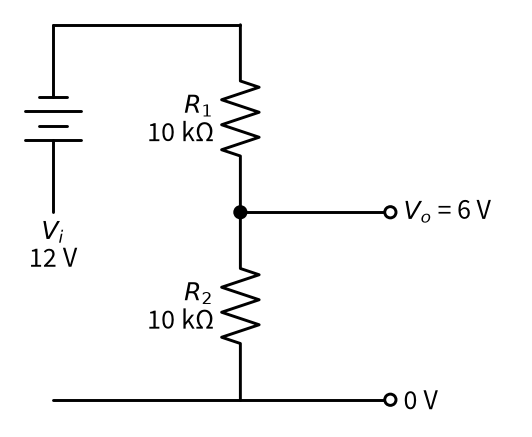
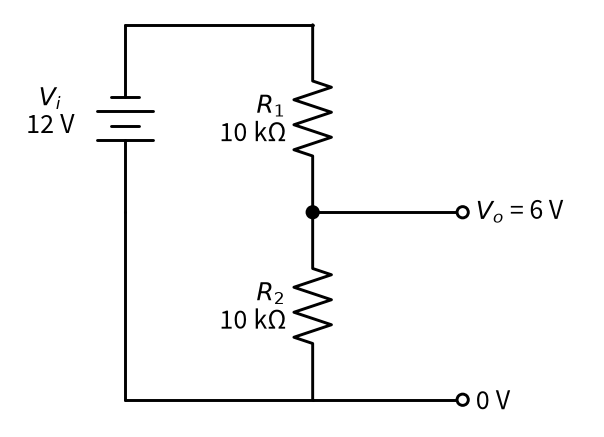
fix: 元件速成 复核修改

diff --git a/code/figs/P1_figs.py b/code/figs/P1_figs.py
@@ -15,12 +15,14 @@ P = "P1"
 # ---------------- 图 P1-p1-1：分压电路 ----------------
 def p1_1_divider():
     with drawing() as d:
-        d += (src := elm.Battery().up().label("$V_i$\n12 V", "left"))
+        d += (src := elm.Battery().up())
+        d += elm.Label().at((src.center.x - 0.9, src.center.y)).label("$V_i$\n12 V")
         d += elm.Line().right(2.5)
         d += (r1 := elm.Resistor().down().label("$R_1$\n10 kΩ"))
         d += (j := elm.Dot())
         d += (r2 := elm.Resistor().down().label("$R_2$\n10 kΩ"))
         d += elm.Line().left().tox(src.start)
+        d += elm.Line().up().toy(src.start)          # 把电池下端接到底线上，回路闭合
         d += elm.Line().right().at(j.center).length(2.0)
         d += elm.Dot(open=True).label("$V_o$ = 6 V", "right")
         d += elm.Line().right().at(r2.end).length(2.0)
@@ -219,6 +221,110 @@ def p2_5_timer():
     fs.save(fig, P, "P1_p2_5_timer.png")
 
 
+# ---------------- 图 P1-p2-6：通电延时与断电延时的四种触点符号 ----------------
+class TimerOffNO(Element2Term):
+    """断电延时「断开」常开触点：与 TimerNO 相同，只是半圆弧翻过来，开口朝向动触片。"""
+    def __init__(self, **kw):
+        super().__init__(**kw)
+        self.segments.append(Segment([(0, 0), (0.85, 0.42), GAP, (1, 0)]))
+        self.segments.append(Segment([(0.45, 0.22), (0.45, 0.78)]))
+        self.segments.append(SegmentArc((0.45, 0.62), width=0.5, height=0.32, theta1=0, theta2=180))
+
+
+class TimerOffNC(Element2Term):
+    """断电延时「闭合」常闭触点：与 TimerNC 相同，只是半圆弧翻过来。"""
+    def __init__(self, **kw):
+        super().__init__(**kw)
+        self.segments.append(Segment([(0, 0), (1.12, 0.42), GAP, (1, 0)]))
+        self.segments.append(Segment([(1, 0), (1, 0.5)]))
+        self.segments.append(Segment([(0.5, 0.19), (0.5, 0.78)]))
+        self.segments.append(SegmentArc((0.5, 0.62), width=0.5, height=0.32, theta1=0, theta2=180))
+
+
+def p2_6_timer_symbols():
+    with drawing(fontsize=11) as d:
+        items = [(TimerNO, "通电延时型\n常开触点\n（延时闭合）"), (TimerNC, "通电延时型\n常闭触点\n（延时断开）"),
+                 (TimerOffNO, "断电延时型\n常开触点\n（延时断开）"), (TimerOffNC, "断电延时型\n常闭触点\n（延时闭合）")]
+        x = 0
+        for cls, lab in items:
+            d += elm.Line().at((x, 0)).down().length(0.4)
+            d += cls().down().label(lab, "bottom", fontsize=10, ofst=0.35)
+            d += elm.Line().down().length(0.4)
+            x += 3.6
+    print("[图 P1-p2-6] 4 个延时触点符号：通电延时型半圆弧开口朝右（背离动触片），断电延时型开口朝左（朝向动触片）")
+    save_schem(d, P, "P1_p2_6_timer_symbols.png")
+
+
+# ---------------- 图 P1-p2-7：戴维南等效——分压器 = 6 V 理想电压源串 5 kΩ 内阻 ----------------
+def p2_7_thevenin():
+    Vi, R1, R2 = 12.0, 10e3, 10e3
+    Voc = Vi * R2 / (R1 + R2)                 # 空载（开路）电压
+    Isc = Vi / R1                             # 输出端短路时的电流（R2 被短路，只剩 R1）
+    Rth = Voc / Isc                           # 内阻 = 空载电压 ÷ 短路电流
+    print(f"[P1-p2-7] 空载电压 V_th = {Voc:.2f} V，短路电流 = {Isc*1e3:.2f} mA，内阻 R_th = {Rth/1e3:.2f} kΩ")
+    assert abs(Voc - 6) < 1e-9 and abs(Isc - 1.2e-3) < 1e-12 and abs(Rth - 5e3) < 1e-6
+    assert abs(Rth - R1 * R2 / (R1 + R2)) < 1e-6          # 和「R1、R2 并联」的结果一样
+    for RL in (10e3, 100e3):
+        par = R2 * RL / (R2 + RL)
+        direct = Vi * par / (R1 + par)                     # 原理篇第一节的老算法：先并联、再分压
+        thev = Voc * RL / (Rth + RL)                       # 新算法：6 V 串 5 kΩ，再和 R_L 分压
+        print(f"[P1-p2-7] R_L = {RL/1e3:g} kΩ：先并联再分压 {direct:.2f} V，等效电路 {thev:.2f} V，掉了 {(Voc-thev)/Voc*100:.1f}%")
+        assert abs(direct - thev) < 1e-9
+    # 规律：负载是内阻的 10 倍时，输出掉 1/11
+    print(f"[P1-p2-7] R_L = 10 × R_th 时输出为空载的 {10/11*100:.1f}%，掉 {1/11*100:.1f}%")
+    assert abs(1 / 11 * 100 - 9.1) < 0.05
+    # 内阻算例（完整示例）：电源盒空载 5.00 V，接 100 Ω 后 4.00 V
+    E, RLa, Va = 5.0, 100.0, 4.0
+    Ia = Va / RLa; r = (E - Va) / Ia
+    Vb = E * 50 / (r + 50)
+    print(f"[P1 内阻算例] 电流 {Ia*1e3:.0f} mA，内阻 r = {r:.0f} Ω；换 50 Ω 负载输出 {Vb:.2f} V；短路电流 {E/r*1e3:.0f} mA")
+    assert abs(Ia - 0.04) < 1e-12 and abs(r - 25) < 1e-9 and abs(Vb - 3.33) < 0.005
+    # 内阻留空题：9 V 电池空载 9.0 V，接 30 Ω 后 8.1 V
+    E5, R5, V5 = 9.0, 30.0, 8.1
+    I5 = V5 / R5; r5 = (E5 - V5) / I5
+    print(f"[P1 内阻留空题] 电流 {I5*1e3:.0f} mA，内阻 {r5:.2f} Ω；接 10 Ω 时输出 {E5*10/(r5+10):.2f} V")
+    assert abs(I5 - 0.27) < 1e-9 and abs(r5 - 3.33) < 0.005
+    with drawing(fontsize=11) as d:
+        # 左：原来的分压器 + 负载
+        d += (src := elm.Battery().up().at((0, 0)))
+        d += elm.Label().at((src.center.x - 0.9, src.center.y)).label("12 V")
+        d += elm.Line().right(2.0)
+        d += elm.Resistor().down().label("$R_1$\n10 kΩ")
+        d += (j := elm.Dot())
+        d += elm.Resistor().down().label("$R_2$\n10 kΩ")
+        d += elm.Line().left().tox(src.start)
+        d += elm.Line().up().toy(src.start)
+        d += elm.Line().right().at(j.center).length(1.8)
+        d += (a := elm.Dot(open=True).label("A", "right"))
+        d += elm.Resistor().down().label("$R_L$", "bottom")
+        d += elm.Line().left().length(1.8)
+        d += elm.Label().at((1.5, -2.9)).label("原电路：分压器 + 负载", fontsize=10)
+        # 中间的「等效」箭头
+        d += elm.Label().at((6.0, 1.5)).label("从 A 点往里看\n两者一模一样  ⇔", fontsize=10)
+        # 右：等效电路
+        x0 = 9.0
+        d += (s2 := elm.Battery().up().at((x0, 0)))
+        d += elm.Label().at((x0 - 0.9, s2.center.y)).label("$V_{th}$\n6 V")
+        d += elm.Resistor().right().label("$R_{th}$  5 kΩ")
+        d += (b := elm.Dot(open=True).label("A", "right"))
+        d += elm.Resistor().down().label("$R_L$", "bottom")
+        d += elm.Line().left().tox(s2.start)
+        d += elm.Label().at((x0 + 1.5, -0.8)).label("等效电路：理想电压源串内阻", fontsize=10)
+    save_schem(d, P, "P1_p2_7_thevenin.png")
+
+
+# ---------------- 参数与调试篇新增练习的答案数字 ----------------
+def p3_new_exercises():
+    T, on, off = 3.0, 2.0, 6.0
+    nd_close = on + T if on + T < off else None          # 通电延时常开：等满 3 s 才闭合，线圈先断电就不闭合
+    print(f"[P1 练习 4] 线圈 {on:g} s 通电、{off:g} s 断电，设定 {T:g} s：通电延时常开 {nd_close:g} s 闭合、{off:g} s 断开；"
+          f"断电延时常开 {on:g} s 闭合、{off + T:g} s 断开")
+    assert nd_close == 5.0 and off + T == 9.0
+    # 若线圈只通电 2 s（2 s→4 s），不到 3 s，通电延时触点根本不动作
+    assert not (2.0 + T < 4.0)
+    print("[P1 练习 4] 若线圈 2 s→4 s 只通电 2 s：通电延时常开不闭合；断电延时常开 2 s 闭合、7 s 断开")
+
+
 # ---------------- 图 P1-p3-1：改变 R（τ）对充电曲线的影响 ----------------
 def p3_1_tau_scan():
     C = 100e-6
@@ -309,6 +415,6 @@ def p3_datasheet_numbers():
 
 if __name__ == "__main__":
     p1_1_divider(); p1_2_rc(); p1_3_symbols(); p1_4_relay_loops()
-    p2_1_loading(); p2_3_square(); p2_4_flyback(); p2_5_timer()
+    p2_1_loading(); p2_3_square(); p2_4_flyback(); p2_5_timer(); p2_6_timer_symbols(); p2_7_thevenin()
     p3_1_tau_scan(); p3_2_divider_tradeoff(); p3_3_rl_answer()
-    p3_datasheet_numbers()
+    p3_datasheet_numbers(); p3_new_exercises()

diff --git a/code/P1_sim.py b/code/P1_sim.py
@@ -1,7 +1,7 @@
 # P1 最小仿真：RC 电路先充电、再放电。思路：把时间切成很多 1 ms 的小段，每一段里
 #   ① 用欧姆定律算流过电阻的电流；② 电流 × 时间 = 流进电容的电荷；③ 电荷 ÷ C = 电容电压涨了多少。
-import sys, os                                     # 下一行让 Python 找到 code/figs 里的共享画图样式
-sys.path.insert(0, os.path.join(os.path.dirname(os.path.abspath(__file__)), "figs"))
+import sys, pathlib
+sys.path.insert(0, str(pathlib.Path("code/figs").resolve()))  # 在仓库根目录运行
 import numpy as np                                 # 数组运算
 import matplotlib.pyplot as plt                    # 画图
 import figstyle as fs                              # 全书统一的颜色、轴标签、保存函数

diff --git a/P1-components-basics/page3.md b/P1-components-basics/page3.md
@@ -8,11 +8,11 @@
 |---|---|---|---|
 | 分压电阻 $R_1$ 、 $R_2$ | 决定输出比例，也决定分压器自己耗多少电 | 1 kΩ～100 kΩ | 太小：白白耗电、电阻发热；太大：一接负载输出就被拉低，还容易受干扰 |
 | 电容 $C$ | 能"攒"多少电荷；和 R 一起决定 τ | 几 pF～几千 μF | 太大：延时太长、上电冲击电流大；太小：滤不平、延时不够 |
-| 时间常数 $\tau = RC$ | 充到 63% 所需的时间；5τ 视为充满 | 由需求定：消抖约几 ms，延时电路几秒 | 和信号快慢比：τ 远小于脉宽时波形基本不变，τ 远大于脉宽时只剩平均值 |
+| 时间常数 $\tau = RC$ | 充到 63% 所需的时间；5τ 视为充满 | 由需求定：按键消抖（去抖）的 RC 约几 ms 到几十 ms（[26 上拉/下拉电阻与电平转换 · 参数与调试篇](../26-pullup-level-shift/page3.md) 扫描后选 10 ms），延时电路几秒 | 和信号快慢比：τ 远小于脉宽时波形基本不变，τ 远大于脉宽时只剩平均值 |
 | 电感 $L$ | 维持电流的"惯性" | 小型继电器线圈约 0.05 H 到几 H（例：Omron G5V-1 的 12 V 款 0.85～1.63 H，见表下说明） | 越大，断电尖峰越难消，续流后电流也消失得越慢 |
 | 线圈额定电压 / 电流 | 让继电器、接触器可靠吸合所需的电 | 继电器常见 5 V、12 V、24 V；接触器线圈常见 24 V、220 V | 电压不够吸不牢、触点抖动；电压太高线圈发热烧毁 |
 
-电感一行的数字来自欧姆龙小型信号继电器 [G5V-1 数据手册](https://xonstorage.z8.web.core.windows.net/pdf/Omron/4226465XON.pdf) 的线圈参数表（手册注明是参考值）：3 V 款 0.05～0.11 H，12 V 款 0.85～1.63 H（线圈电阻 960 Ω），24 V 款 3.48～6.61 H。同一个线圈有两个数，是因为衔铁吸上以后铁芯和衔铁之间的空气缝变小，磁路更"好走"，电感约变成原来的 2 倍（程序打印 1.9～2.2 倍）。拿 12 V 款算时间常数： $\tau = L/R$ = 0.85 H ÷ 960 Ω ≈ 0.89 ms 到 1.63 H ÷ 960 Ω ≈ 1.70 ms。[原理与实现篇](page2.md) 里 0.1 H、100 Ω 的示意线圈 τ = 1 ms，和真实继电器在同一个量级。
+电感一行的数字来自欧姆龙小型信号继电器 [G5V-1 数据手册](https://xonstorage.z8.web.core.windows.net/pdf/Omron/4226465XON.pdf) 的线圈参数表（手册注明是参考值）：3 V 款 0.05～0.11 H，12 V 款 0.85～1.63 H（线圈电阻 960 Ω），24 V 款 3.48～6.61 H。同一个线圈有两个数，是因为衔铁吸上以后铁芯和衔铁之间的空气缝变小，磁路更"好走"，电感约变成原来的 2 倍（`code/figs/P1_figs.py` 打印 1.9～2.2 倍）。拿 12 V 款算时间常数： $\tau = L/R$ = 0.85 H ÷ 960 Ω ≈ 0.89 ms 到 1.63 H ÷ 960 Ω ≈ 1.70 ms。[原理与实现篇](page2.md) 里 0.1 H、100 Ω 的示意线圈 τ = 1 ms，和真实继电器在同一个量级。
 
 先看 RC 的参数扫描。图 P1-p3-1 保持 C=100 μF 不变，把 R 换成 4.7 kΩ、10 kΩ、22 kΩ 三档。
 
@@ -40,7 +40,7 @@
 | 按下按钮，继电器"咔哒"响了，但灯不亮 | 负载接到了常闭端，或者负载回路自己没有电源 | 断电后用万用表通断档，按住线圈通电时测公共端与常开端 | 按"公共端—常开端—负载—电源"重新接成独立回路 |
 | 继电器完全不吸合 | 线圈电压不够，或驱动电流不够（例如直接用单片机引脚驱动） | 测线圈两端电压，与额定电压对比 | 换对电压的线圈，或加三极管驱动（22） |
 | 一关断继电器，三极管就坏或单片机复位 | 线圈断电产生上千伏尖峰 | 用示波器看开关两端电压（低压实验中观察） | 在线圈两端反向并联续流二极管 |
-| 加了续流二极管后，触点释放变慢、偶尔粘连 | 二极管让电流衰减变慢，触点分开的速度变慢 | 测线圈断电到触点分开的时间 | 改用"二极管 + 稳压管"等抑制方案（见 TE 白皮书） |
+| 加了续流二极管后，触点释放变慢、偶尔粘连 | 二极管让电流衰减变慢，触点分开的速度变慢 | 测线圈断电到触点分开的时间 | 改用"二极管 + 稳压管"等抑制方案（稳压管是反向导通时两端电压基本固定的二极管，见 [10 稳压管稳压 · 直觉篇](../10-zener-regulator/page1.md)；方案对比见 TE 白皮书） |
 
 第二、三行里电容的两个数字这样来：
 
@@ -74,11 +74,27 @@
 
 <details><summary>答案</summary>
 
-下电阻和负载并联后是 5 kΩ，输出 = 12 × 5 / (10 + 5) = 4 V，比空载的 6 V 低了三分之一。换成 1 kΩ 后，并联电阻约 0.909 kΩ，输出 = 12 × 0.909 / 1.909 ≈ 5.71 V，接近 6 V 了；代价是分压器自己的电流从 0.6 mA 涨到 6 mA，耗电变成 10 倍。
+下电阻和负载并联后是 5 kΩ，输出 = 12 × 5 / (10 + 5) = 4 V，比空载的 6 V 低了三分之一。换成 1 kΩ 后，并联电阻约 0.909 kΩ，输出 = 12 × 0.909 / 1.909 ≈ 5.71 V，接近 6 V 了；代价是分压器自己的电流从 0.6 mA 涨到 6 mA，耗电变成 10 倍。用 [原理与实现篇](page2.md) 第七节的说法：分压器内阻从 5 kΩ 降到 0.5 kΩ，负载变成内阻的 20 倍，所以只掉约 5%。
 
 </details>
 
-**练习 4（较难）**：某同学画了这样一个电路：5 V 电源 → 按钮 SB → KA 线圈 → KA 常开触点 → 灯 → 回到电源，全部串在一个回路里。按下按钮，灯会亮吗？应该怎么改？
+**练习 4（中）**：一个时间继电器设定延时 3 s，线圈在 2 s 通电、6 s 断电。（1）通电延时型的常开触点在何时闭合、何时断开？（2）断电延时型的常开触点呢？（3）如果线圈只在 2 s 到 4 s 通电 2 s，两种触点又怎样？
+
+<details><summary>答案</summary>
+
+（1）通电延时型：通电后要等 3 s，所以 5 s 闭合；6 s 线圈一断电立即断开。（2）断电延时型：2 s 通电立即闭合；6 s 断电后还要保持 3 s，9 s 才断开。（3）通电时间只有 2 s，比设定的 3 s 短，通电延时型的常开触点根本来不及闭合；断电延时型照样 2 s 闭合，4 s 断电后再保持 3 s，7 s 断开。对照 [原理与实现篇](page2.md) 第六节的时序图检查。数字都由 `code/figs/P1_figs.py` 打印。
+
+</details>
+
+**练习 5（中）**：12 V 电源经开关 S 接继电器线圈，线圈另一端接 0 V。续流二极管并在线圈两端，它的阴极（有横杠的一端）应该接线圈的哪一端？如果接反了，一合上开关会发生什么？
+
+<details><summary>答案</summary>
+
+阴极接线圈靠电源正极（12 V、开关那一侧）的一端，阳极接 0 V 那一端。这样平时电流从正极流向 0 V，二极管是反着的，不导通；断电瞬间线圈要维持原来方向的电流，下端电位被顶高、上端被拉低，电流就从二极管绕回线圈。接反的话，开关一合上二极管就正向导通，把线圈短路，电流几乎全走二极管，继电器不吸合，二极管和电源还可能因电流过大而损坏。
+
+</details>
+
+**练习 6（较难）**：某同学画了这样一个电路：5 V 电源 → 按钮 SB → KA 线圈 → KA 常开触点 → 灯 → 回到电源，全部串在一个回路里。按下按钮，灯会亮吗？应该怎么改？
 
 <details><summary>答案</summary>
 
@@ -86,7 +102,7 @@
 
 </details>
 
-**练习 5（变体迁移：RL 电路）**：把 RC 电路里的电容换成电感：L=0.1 H、内阻 100 Ω 的线圈接到 12 V 电源上。（1）最终电流多大？（2）时间常数多大？（3）1 ms 和 5 ms 时电流各是多少？
+**练习 7（变体迁移：RL 电路）**：把 RC 电路里的电容换成电感：L=0.1 H、内阻 100 Ω 的线圈接到 12 V 电源上。（1）最终电流多大？（2）时间常数多大？（3）1 ms 和 5 ms 时电流各是多少？
 
 <details><summary>答案</summary>
 
@@ -94,7 +110,7 @@
 
 ![RL 电路通电后线圈电流的上升曲线](img/P1_p3_3_rl_answer.png)
 
-*图 P1-p3-3　练习 5 答案：RL 电路通电电流（L=0.1 H，R=100 Ω，12 V）*
+*图 P1-p3-3　练习 7 答案：RL 电路通电电流（L=0.1 H，R=100 Ω，12 V）*
 
 图 P1-p3-3 中天蓝色曲线就是线圈电流：它和 RC 电路的电容电压长得一模一样，只是"攒"的东西从电压换成了电流。这就是电容和电感的对称性：电容保电压，电感保电流。
 

diff --git a/P1-components-basics/page1.md b/P1-components-basics/page1.md
@@ -10,7 +10,7 @@
 2. 电容和电阻接在一起，为什么灯不是马上亮、而是慢慢亮？"延时""滤波""消抖"这些词背后是同一件事吗？
 3. 继电器、接触器的线圈和触点为什么画在电路图的两个地方？按下一个小按钮，怎么就能让另一边的大电机转起来？
 
-后面 26 个节点里，几乎每一个都要用到这一页的结论。所以这一页不追求面面俱到，只抓四样东西：**电阻分压、电容、电感、开关与继电器**。每样东西先给一个生活里的类比，再给一张电路图，最后用一句话总结。
+后面所有节点里，几乎每一个都要用到这一页的结论。所以这一页不追求面面俱到，只抓四样东西：**电阻分压、电容、电感、开关与继电器**。每样东西先给一个生活里的类比，再给一张电路图，最后用一句话总结。
 
 ## 一、电阻分压：两段水管分水压
 
@@ -42,7 +42,7 @@
 
 电感（线圈）的脾气和电容正好相反。想象水管中间装了一个很重的飞轮，水流推着它转。水流想突然变大，飞轮转不快，拖住水流；水流想突然停下，飞轮却靠惯性继续转，反过来推着水往前冲。所以**电感里的电流不能突变**。
 
-最危险的情况是"突然断电"：开关一断开，电流没路可走，可电感偏要维持原来的电流，于是在线圈两端憋出一个很高的电压尖峰，可能把开关、三极管击穿。继电器、接触器的线圈都是电感，所以驱动它们的电路里常常反向并联一只"续流二极管"，给电流留一条退路。
+最危险的情况是"突然断电"：开关一断开，电流没路可走，可电感偏要维持原来的电流，于是在线圈两端憋出一个很高的电压尖峰，可能把开关、三极管击穿。继电器、接触器的线圈都是电感，所以驱动它们的电路里常常反向并联一只"续流二极管"，给电流留一条退路。二极管是只允许电流单向通过的元件，像单向阀门，导通时两端约 0.7 V，[P2 半导体入门 · 直觉篇](../P2-semiconductor-basics/page1.md) 会细讲。"反向并联"是说把它并在线圈两端，方向和平时的电流相反：正常通电时它不导通，等于不存在；一断电，线圈憋出的电流就从它绕一圈回到线圈，慢慢耗掉。有无这只二极管时线圈断电的电流和电压波形，见 [原理与实现篇](page2.md) 第五节的对比图。
 
 ## 四、开关、按钮、继电器和接触器
 
@@ -52,9 +52,9 @@
 
 *图 P1-p1-3　线圈与触点的图形符号（国标画法）*
 
-图 P1-p1-3 从左到右依次是：线圈（矩形框）、常开触点、常闭触点、常开按钮（多一根虚线推杆）、常闭按钮，以及时间继电器的两种延时触点（多一个半圆弧，像一顶小降落伞，表示"慢慢动作"）。常闭触点右端那根竖直的小挡头，就是它"平时压在一起"的标志。
+图 P1-p1-3 从左到右依次是：线圈（矩形框）、常开触点、常闭触点、常开按钮（多一根虚线推杆）、常闭按钮，以及通电延时型时间继电器的常开、常闭两种延时触点（多一个半圆弧，像一顶小降落伞，表示"慢慢动作"；断电延时型的画法在原理与实现篇第六节对比）。常闭触点下端向右伸出、被动触头压住的那一小段横线，就是它"平时压在一起"的标志。
 
-**继电器**是"用小电流控制大电流"的开关：给线圈通电，线圈变成电磁铁，把衔铁吸过去，带动触点闭合或断开。**接触器**是大号的继电器，触点能通断电动机那样的大电流，结构上分为主触点、辅助触点和线圈三部分，而且线圈电压常常和主触点所接的电压不一样。关键在于：**线圈和触点之间没有电线相连**，它们只靠磁力和机械联动发生关系，所以在电路图上分别画在两个独立的回路里，用同一个文字符号（例如 KA、KM）表示它们属于同一个元件。看 图 P1-p1-4。
+**继电器**是"用小电流控制大电流"的开关：给线圈通电，线圈变成电磁铁，把衔铁吸过去，带动触点闭合或断开。**接触器**是大号的继电器，触点能通断电动机那样的大电流，结构上分为主触点、辅助触点和线圈三部分：接触器的主触点接电机，通断大电流；辅助触点只接控制回路，电流小。而且线圈电压常常和主触点所接的电压不一样。关键在于：**线圈和触点之间没有电线相连**，它们只靠磁力和机械联动发生关系，所以在电路图上分别画在两个独立的回路里，用同一个文字符号（例如 KA、KM）表示它们属于同一个元件。看 图 P1-p1-4。
 
 ![继电器的控制回路和负载回路：左边 5 V 电源经按钮 SB 接 KA 线圈，右边 12 V 电源经 KA 常开触点接灯](img/P1_p1_4_relay_loops.png)
 
